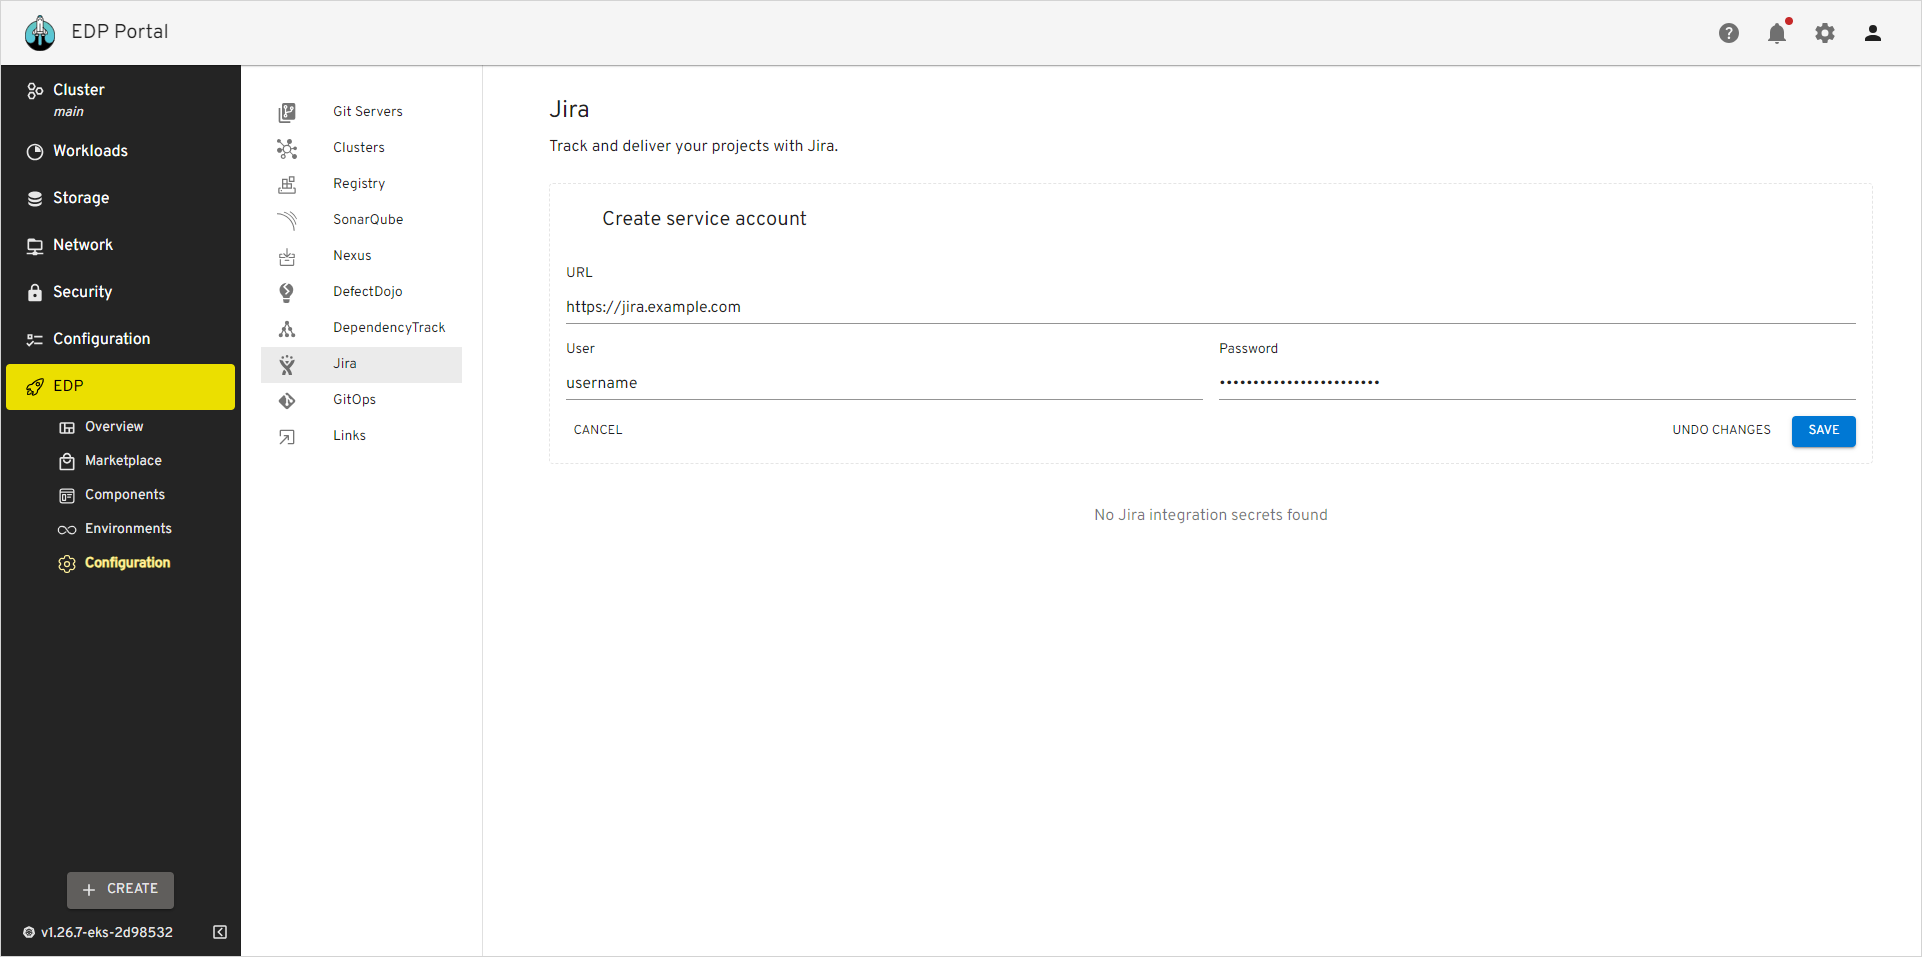
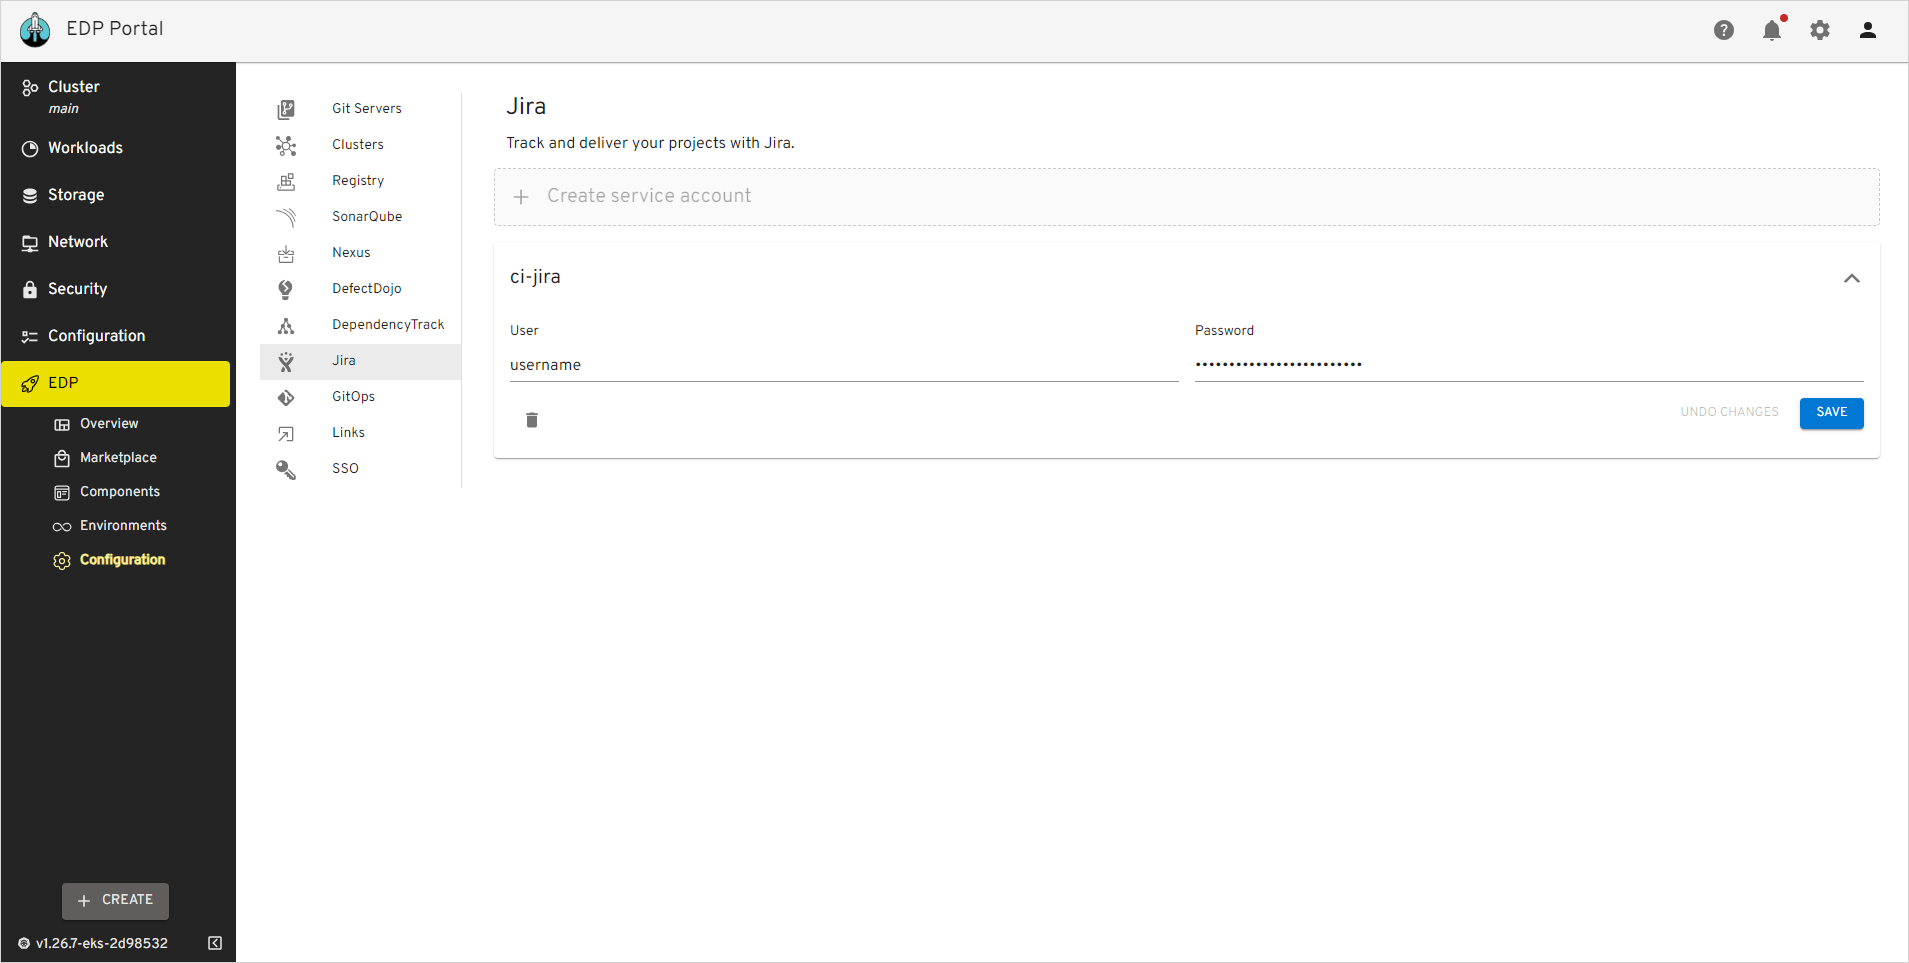
docs: Update the Align Jira Integration page (#108)
Jira: EPMDEDP-12740

diff --git a/docs/operator-guide/jira-integration.md b/docs/operator-guide/jira-integration.md
@@ -16,11 +16,11 @@ Enabling Jira integration allows for the automatic population of three fields in
 
 Teams can utilize these fields to enhance their work prioritization, identify dependencies, improve collaboration, and ultimately achieve faster software delivery.
 
-## Integration Procedure
+## Integration Procedure<a name="integration-procedure"></a>
 
 In order to adjust the Jira server integration, add the JiraServer CR by performing the following:
 
-1. Provision the secret using `EDP Portal`, `Manifest` or with the `externalSecrets` operator:
+1. Provision the **ci-jira** secret using `EDP Portal`, `Manifest` or with the `externalSecrets` operator:
 
   === "EDP Portal"
 
@@ -39,7 +39,6 @@ In order to adjust the Jira server integration, add the JiraServer CR by perform
         labels:
           app.edp.epam.com/secret-type=jira
       stringData:
-        url: https://jira.example.com
         username: username
         password: password
       ```
@@ -49,11 +48,22 @@ In order to adjust the Jira server integration, add the JiraServer CR by perform
       ```json
       "ci-jira":
       {
-        "url": "https://jira.example.com",
         "username": "username",
         "password": "password"
       }
       ```
+
+  !!! note "Required Permissions for Issue Management"
+
+      To manage issue labels, components, and add links in Jira, please make sure the user has the following permissions:
+
+      1. **Edit Issues:** This permission is necessary to modify issue fields, including adding or removing labels and components.
+
+      2. **Link Issues:** You must have this permission to create and manage links between issues.
+
+      3. **Add Comments:** Required for adding external links and comments to issues.
+
+
 
 2. Create JiraServer CR in the OpenShift/Kubernetes namespace with the **apiUrl**, **credentialName** and **rootUrl** fields:
 
@@ -69,23 +79,56 @@ In order to adjust the Jira server integration, add the JiraServer CR by perform
   !!! note
       The value of the **credentialName** property is the name of the Secret, which is indicated in the first point above.
 
-3. In the EDP Portal UI, navigate to the **Advanced Settings** menu to check that the **Integrate with Jira server** check box appeared:
+## Enable Jira Using Helm Chart
 
-    !![Advanced settings](../assets/operator-guide/jira_integration_ac.png "Advanced settings")
+There is also a possibility to set up Jira integration when deploying EPAM Delivery Platform. To follow this approach, please familiarize yourself with the following parameters of the [values.yaml](https://github.com/epam/edp-install/blob/release/3.5/deploy-templates/values.yaml#L89) file in the EDP installer. Enabling the `jira.integration` parameter creates the following custom resources:
 
-  !!! note
+* EDPComponent;
+* JiraServer;
+* External Secrets Operator (in case it is used).
 
-      There are four predefined variables with the respective values that can be specified singly or as a combination:
+To set up Jira integration along with EDP, follow the steps below:
 
-      **EDP_COMPONENT** – returns application-name<br>
-      **EDP_VERSION** – returns 0.0.0-SNAPSHOT or 0.0.0-RC<br>
-      **EDP_SEM_VERSION** – returns 0.0.0<br>
-      **EDP_GITTAG** – returns build/0.0.0-SNAPSHOT.2 or build/0.0.0-RC.2<br>
+1. Create the **ci-jira** secret in the `edp` namespace as it's described [above](#integration-procedure).
 
-      There are no character restrictions when combining the variables, combination samples:<br>
-      EDP_SEM_VERSION-EDP_COMPONENT or <br>EDP_COMPONENT-hello-world/EDP_VERSION, etc.
+2. Deploy the platform with the `jira.integration` parameter set to `true` in the [values.yaml](https://github.com/epam/edp-install/blob/release/3.5/deploy-templates/values.yaml) file.
 
-    As a result of successful Jira integration, the additional information will be added to tickets.
+
+## Jira Integration Usage
+
+To use Jira integration, you need to set up your codebases accordingly.
+
+When creating a codebase, navigate to the **Advanced Settings** tab. Select the **Integrate with Jira server** check box and fill in the required fields:
+
+  !![Advanced settings](../assets/operator-guide/jira_integration_ac.png "Advanced settings")
+
+There are four predefined variables with the respective values that can be specified singly or as a combination. These variables show different data depending on which versioning type is currently used:
+
+If the EDP versioning type is used:
+
+* **EDP_COMPONENT** – returns application-name;
+* **EDP_VERSION** – returns 0.0.0-SNAPSHOT or 0.0.0-RC;
+* **EDP_SEM_VERSION** – returns 0.0.0;
+* **EDP_GITTAG** – returns build/0.0.0-SNAPSHOT.2 or build/0.0.0-RC.2.
+
+If the default versioning type is used:
+
+* **EDP_COMPONENT** – returns application-name;
+* **EDP_VERSION** – returns the date when the application was tagged. (Example: 20231023-131217);
+* **EDP_SEM_VERSION** – returns the date when the application was tagged. (Example: 20231023-131217);
+* **EDP_GITTAG** – returns the date when the application was tagged. (Example: 20231023-131217).
+
+!!! note
+    There are no character restrictions when combining the variables. You can concatenate them using the dash sign. Combination samples:<br>
+    **EDP_SEM_VERSION-EDP_COMPONENT**;<br>
+    **EDP_COMPONENT-hello-world/EDP_VERSION**;<br>
+    etc.
+
+If the Jira integration is set up correctly, you will start seeing additional metadata in the tickets:
+
+  !![Supplemental information](../assets/operator-guide/jira_versioning_type_example.png "Supplemental information")
+
+If metadata is not visible in a Jira ticket, check the status field of the **JiraIssueMetadata** Custom Resources in the **edp** namespace. The codebase operator deletes this resource after successful processing, but in case of an error, the 'JiraIssueMetadata' resource may still exist within the namespace.
 
 ## Related Articles
 
